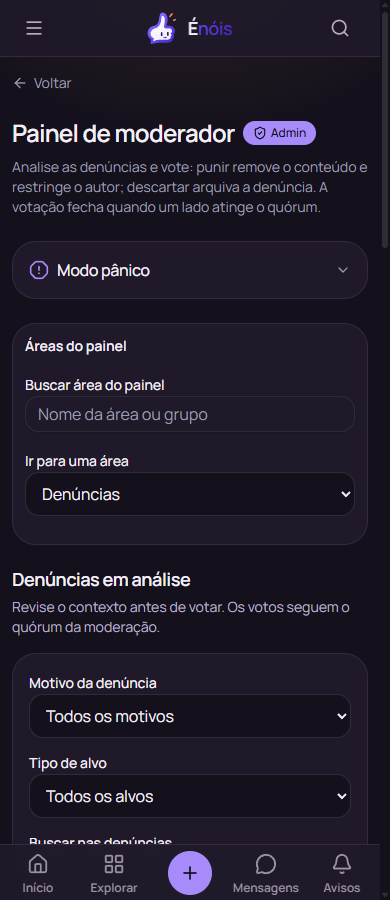
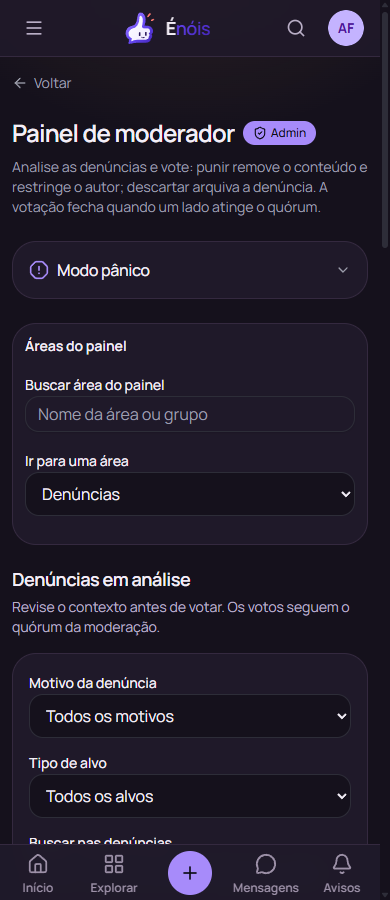
docs(painel): atualizar provas com fixture completa

Changed region(s): [[0.3077, 0.0, 0.5846, 0.0622], [0.8308, 0.0, 0.9231, 0.0622], [0.7385, 0.0, 0.7692, 0.0622]]

diff --git a/docs/proof/moderator-workspace/CONTINUACAO-2026-11-19.md b/docs/proof/moderator-workspace/CONTINUACAO-2026-11-19.md
@@ -101,6 +101,20 @@ inesperados nos estados inspecionados. HTTP 503 de consulta/ação foi deliberad
 Contraste computado: 232 amostras no aplicativo, mínimo **5.3946:1**; 160 amostras no Storybook,
 mínimo **6.0002:1**. É verificação das superfícies e controles inspecionados, não auditoria global.
 
+### Auditoria HTTP e substituição das capturas
+
+A auditoria final da primeira fixture revelou 404 de contratos auxiliares do shell. Foram completados
+perfil, idade, comunidades e, depois da hidratação, perfil profissional, conforme os DTOs reais.
+As rodadas incompletas foram preservadas como provas limitadas, não como uma validação HTTP limpa.
+Nenhuma alteração de código produtivo foi feita para isso.
+
+**As mesmas 44 verificações do aplicativo foram integralmente repetidas e aprovadas**, em 1280/390 e
+claro/escuro. O registro HTTP da fixture final não contém 4xx ou falhas não previstas; permanecem
+somente os 503 deliberados dos cenários de fila, ação e pânico. As quatro imagens abaixo são dessa
+rodada completa. Os reruns não aumentam o total de 104 verificações distintas. Esta atualização é
+exclusivamente documental/visual; os binários produtivos e seus gates permanecem vinculados às
+composições indicadas acima.
+
 ![Painel desktop claro](continuacao-2026-11-19/app-painel-1280-light.png)
 
 ![Painel mobile escuro](continuacao-2026-11-19/app-painel-390-dark.png)
